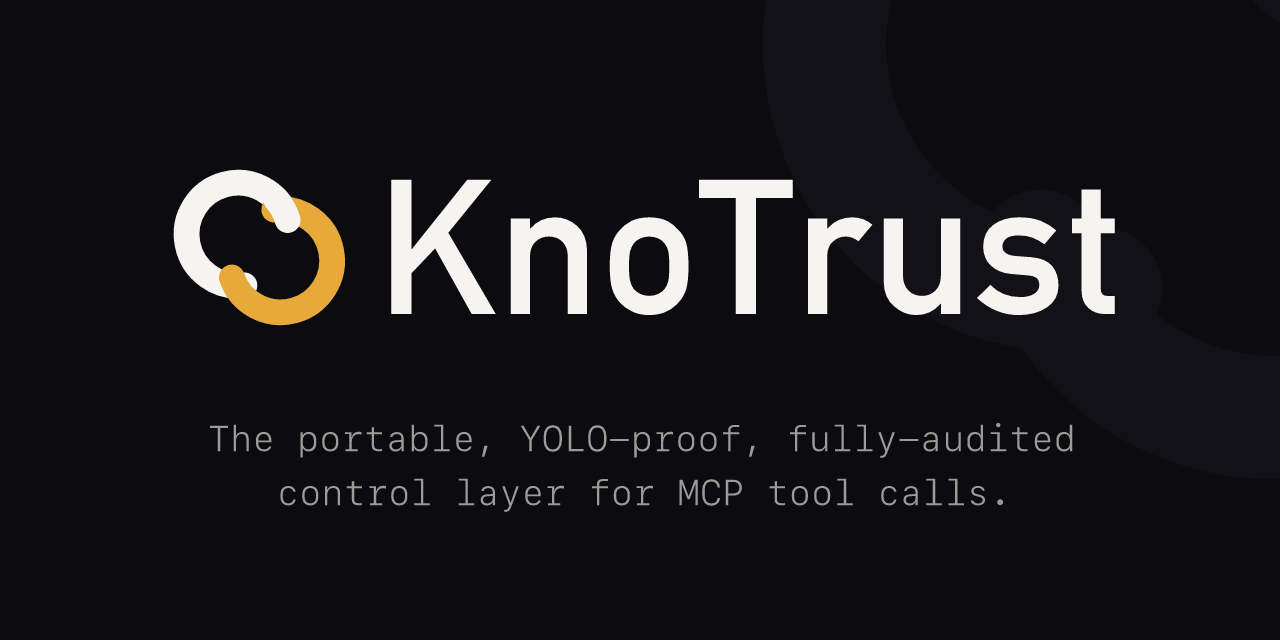
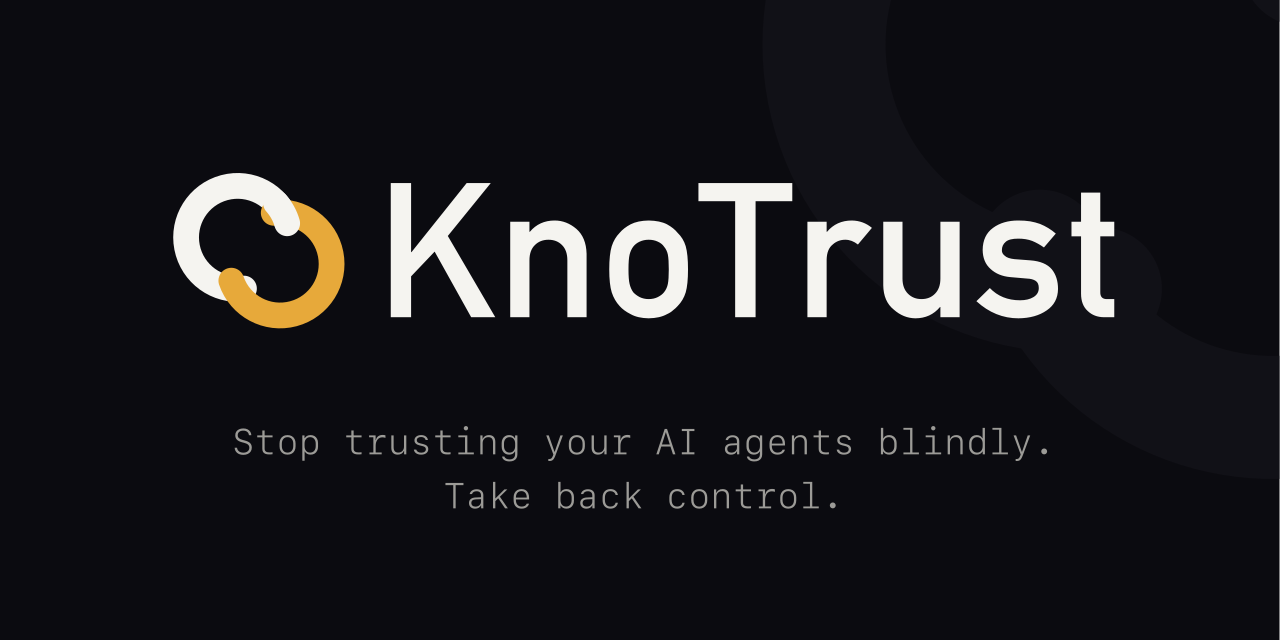
docs: reposition to a human, accessible voice
Reframe the public messaging around 'stop trusting your AI agents blindly —
take back control', and make the intro-level docs readable by non-technical
and lightly-technical people, not only developers.

- README subtitle + opening paragraph now lead with the problem in plain
  language and a spending-limit/receipt analogy, then keep the full technical
  description below.
- Website hero, site description, and OG title/description updated to the new
  voice; six feature cards reworded plainer.
- guide/introduction.md and guide/core-concepts.md: each concept gets a
  plain-language 'in plain terms' lead + inline glosses (MCP, tool call,
  grant, tier), with all technical detail and every honesty caveat preserved
  verbatim below. security.md/architecture.md get a one-line orienting note.
- Regenerated the social-preview card with the new two-line tagline.

No technical claim or limitation caveat was softened: 'not a sandbox',
'tamper-evident, not tamper-proof', 'config-cooperative', and 'annotations
never trusted blindly' are all intact; the local log is never called
'immutable'.

diff --git a/website/guide/introduction.md b/website/guide/introduction.md
@@ -2,14 +2,37 @@
 
 ## What is KnoTrust?
 
-KnoTrust is a **local-first policy enforcement and human-approval layer for
-the Model Context Protocol (MCP)**. It sits between an MCP client (Claude
-Desktop, Codex CLI, or any MCP-native agent) and the real MCP server it's
-talking to, watches every `tools/call`, and decides — in real time — whether
-that call should run, be refused, or wait for a human.
+AI agents don't just chat anymore — they *do* things. They send emails,
+move money, deploy code, delete files, and post messages, often on their
+own. That's genuinely useful, and a little nerve-wracking: the same agent
+that drafts your release notes could just as easily force-push over your
+main branch, and you'd only find out afterward.
+
+KnoTrust puts a human back in the loop for the actions that actually
+matter. You decide once which kinds of actions are safe to run
+automatically, which need a one-time approval, and which should always
+stop and ask a person. Then KnoTrust sits quietly between your agent and
+its tools: safe actions pass straight through, risky ones pause and wait
+for your "yes," and every attempt — allowed or blocked — is written to a
+log you can check later.
+
+Think of it as a spending limit and an approval step for your AI agent —
+plus a receipt for everything it does.
+
+More precisely: KnoTrust is a **local-first policy enforcement and
+human-approval layer for the Model Context Protocol (MCP)** — the open
+standard that agents like Claude and Codex use to reach outside tools such
+as files, GitHub, Stripe, or Slack. Whenever an agent "calls a tool" —
+attempts to actually *do* something rather than just talk — it does so
+through MCP, and each of those attempts is a **tool call**. KnoTrust sits
+between an MCP client (Claude Desktop, Codex CLI, or any MCP-native agent)
+and the real MCP server it's talking to, watches every `tools/call`, and
+decides — in real time — whether that call should run, be refused, or wait
+for a human.
 
 Concretely, it ships as a single `knotrust` CLI. Its flagship surface is a
-**stdio proxy**: you wrap an MCP server's launch command in `knotrust --`,
+**stdio proxy** (a lightweight relay process that inspects each message as
+it passes through): you wrap an MCP server's launch command in `knotrust --`,
 and from then on every tool call that server would have run instead passes
 through KnoTrust's decision core first.
 
@@ -56,10 +79,12 @@ Read more in [Core Concepts](/guide/core-concepts) and the full
 
 ## The grant: KnoTrust's core primitive
 
-A **grant** is a pre-satisfied prerequisite — `{principal, agent, tool,
-resource scope, conditions, risk tier, granted_by, expiry, single_use}` —
-signed with Ed25519 (JWS Compact, `alg: EdDSA`) so it can be verified fully
-offline, with no network call and no external service. There are two kinds:
+In plain terms, a **grant** is a pre-approval you sign once so KnoTrust
+doesn't have to ask you about the same safe action every time. Formally, a
+grant is a pre-satisfied prerequisite — `{principal, agent, tool, resource
+scope, conditions, risk tier, granted_by, expiry, single_use}` — signed with
+Ed25519 (JWS Compact, `alg: EdDSA`) so it can be verified fully offline,
+with no network call and no external service. There are two kinds:
 
 - **Durable grants** you mint ahead of time with `knotrust grant`, for calls
   you're happy to pre-authorize (e.g. "this agent may open GitHub issues on
@@ -76,9 +101,13 @@ for KnoTrust's injection-resistance — see [Security](/security).
 
 ## Risk tiers
 
-Every tool call is classified into one of three tiers, and the tier drives
-everything else — whether a durable grant can satisfy it, whether it's
-cached, and whether it can ever fail open:
+In plain words, every action falls into one of three buckets: `routine`
+(safe, everyday reads — these run automatically), `sensitive` (writes and
+changes — these need a one-time grant), and `critical` (dangerous or
+irreversible actions — these always stop and ask a human). Every tool call
+is classified into one of these three tiers, and the tier drives everything
+else — whether a durable grant can satisfy it, whether it's cached, and
+whether it can ever fail open:
 
 <p>
 <span class="tier tier-routine">routine</span>

diff --git a/website/index.md b/website/index.md
@@ -6,8 +6,8 @@ hero:
     light: /logo-wordmark.svg
     dark: /logo-wordmark-dark.svg
     alt: KnoTrust
-  text: "Stop re-approving safe calls. Stop the catastrophic ones cold."
-  tagline: The local-first policy and approval layer for what your agents can do through MCP — signed grants, human-in-the-loop approval, and a tamper-evident audit trail. Portable across Claude, Codex, and any MCP-native agent.
+  text: "Stop trusting your AI agents blindly."
+  tagline: KnoTrust puts you back in charge of what your AI agents can actually do — the safe actions run instantly, the risky ones wait for your approval, and every attempt is logged. Works with Claude, Codex, and any MCP agent. Nothing to host, no account.
   actions:
     - theme: brand
       text: Get Started
@@ -17,18 +17,18 @@ hero:
       link: https://github.com/avijeett007/knotrust
 
 features:
-  - title: Local-first & zero-backend
-    details: Runs entirely on your machine. "npx knotrust -- <server>" and go — no account, no cloud, and nothing to stand up.
-  - title: Signed durable grants
-    details: Pre-authorize a tool once with an Ed25519-signed grant. Stop re-approving the same safe call in every new session.
-  - title: Human-in-the-loop approval
-    details: Critical actions block and wait for an authenticated human — a terminal prompt or the localhost approval page, on every client.
-  - title: Fully audited & tamper-evident
-    details: Every decision — allow, deny, or hold — appends to a hash-chained log. Nothing your agent attempted goes unrecorded.
-  - title: Cross-agent portable
-    details: One grant, one policy — works across Claude Desktop, Codex CLI, and any MCP-native agent, not locked to a single client's config.
-  - title: Standards-conformant
-    details: Built on the AuthZEN Authorization API's Subject/Action/Resource/Context model and the MCP protocol, not a bespoke policy language.
+  - title: Runs on your machine
+    details: Nothing to host, no account, no cloud. `npx knotrust -- <server>` and you're going. Your policy and history stay in `~/.knotrust/` on your computer.
+  - title: Approve once, not every time
+    details: Pre-approve a safe action with a signed grant, and KnoTrust stops asking you about it in every new session.
+  - title: A human checks the risky stuff
+    details: Critical actions stop and wait for a real person to approve them — from a terminal prompt or a local approval page — on every client.
+  - title: Everything is on the record
+    details: Every decision — allowed, denied, or held — is appended to a tamper-evident log. Nothing your agent tried goes unrecorded.
+  - title: Works with all your agents
+    details: One policy, one grant — the same in front of Claude Desktop, Codex CLI, or any MCP agent. Not locked to one app's settings.
+  - title: Built on open standards
+    details: Uses the AuthZEN authorization model and the MCP protocol — not a bespoke, lock-in policy language.
 ---
 
 ## Get started in under a minute
@@ -41,11 +41,12 @@ npx knotrust init claude
 npx knotrust -- node server.js
 ```
 
-`knotrust init` finds your client's MCP config, rewires each server to run
-behind `knotrust --`, and seeds a `knotrust.config` with suggested risk tiers
-drawn from the server's own tool annotations. From there, every `tools/call`
-is decided: routine calls pass straight through, sensitive calls need a
-grant, and critical calls block until an authenticated human approves them.
+`knotrust init` finds your AI client's tool configuration, rewires each tool
+server to run behind `knotrust --`, and sets up a starting policy with
+suggested risk tiers based on what each tool says about itself. From there,
+every action your agent tries is decided by its risk tier: routine actions
+pass straight through, sensitive actions need a one-time approval (a
+"grant"), and critical actions stop and wait for you to say yes.
 See the [installation & quickstart guide](/guide/installation) for the full
 walkthrough.
 

diff --git a/website/guide/core-concepts.md b/website/guide/core-concepts.md
@@ -2,6 +2,11 @@
 
 ## Risk tiers
 
+In plain terms: every action your agent tries gets sorted into one of
+three buckets — safe reads that run automatically, changes that need a
+one-time approval, and dangerous or irreversible actions that always stop
+and wait for a human.
+
 Every tool call KnoTrust intercepts is classified into one of three tiers,
 in order of increasing consequence:
 
@@ -28,6 +33,11 @@ unannotated, destructive-looking tool defaults to `sensitive` or higher, never
 whatever an admin envelope has floored it at.
 
 ## Signed grants
+
+In plain terms: a grant is a pre-approval you sign once, so KnoTrust
+doesn't have to ask you about the same safe action every time — like
+handing someone a standing permission slip instead of asking again on
+every single occasion.
 
 A **grant** is the thing that lets a call skip re-approval: a pre-satisfied
 prerequisite of the shape `{principal, agent, tool, resource scope,
@@ -66,6 +76,11 @@ authenticated human approving an escalation. See
 
 ## Approvals & block-and-wait
 
+In plain terms: when your agent tries something risky enough to need a
+real person's sign-off, KnoTrust pauses the action and asks you — wherever
+you happen to be looking, whether that's a terminal or a browser tab —
+rather than letting it run and hoping for the best.
+
 When a `critical` call has no matching grant, it escalates to the approval
 orchestrator, which walks a lifecycle of
 `requested → pending → approved | denied | expired | cancelled`. Because
@@ -94,6 +109,10 @@ validated against DNS-rebinding. See [Security](/security) for the full
 threat model behind this design.
 
 ## The audit trail
+
+In plain terms: KnoTrust keeps a running record of everything your agent
+tried — like a receipt roll you can scroll back through — so if something
+goes wrong, you can see exactly what happened and when.
 
 Every decision KnoTrust makes — allow, deny, a cache hit, an approval
 request, a grant minted, a fail-open firing — appends exactly one event to

diff --git a/README.md b/README.md
@@ -7,7 +7,7 @@
 </p>
 
 <p align="center">
-  <b>The portable, YOLO-proof, fully-audited control layer for what your agents can do through MCP.</b>
+  <b>Stop trusting your AI agents blindly. Take back control of what they can do.</b>
 </p>
 
 <p align="center">
@@ -19,7 +19,9 @@
 
 ---
 
-**KnoTrust** is an open-source, local-first, zero-backend policy-and-approval layer for [MCP](https://modelcontextprotocol.io) tool calls. It runs as a **stdio proxy** — `knotrust -- your-mcp-server` — that sits between an MCP client (Claude Desktop, Codex CLI, or any MCP-native agent) and the real server, intercepting every `tools/call`. Each call is evaluated against **signed grants**, a **risk tier**, and (when neither is enough) a **human approval**, and resolved to one of four outcomes: `allow`, `deny`, `pending_approval`, or `deferred_not_eligible`. Enforcement happens **inside the proxy process, server-side of the client** — so it holds even when the client itself is running in a YOLO / auto-approve / `--dangerously-skip-permissions` mode, because the client's own approval UI was never in the loop to begin with.
+AI agents don't just chat anymore — they *do* things: send emails, move money, deploy code, delete files, post messages, often on their own. That's genuinely useful, and a little nerve-wracking — the same agent that drafts your release notes could just as easily force-push over your main branch, and you'd only find out afterward. Think of **KnoTrust** as a spending limit and an approval step for your AI agent, plus a receipt for everything it does.
+
+Precisely: **KnoTrust** is an open-source, local-first, zero-backend policy-and-approval layer for [MCP](https://modelcontextprotocol.io) (the open standard agents like Claude and Codex use to reach outside tools) tool calls. It runs as a **stdio proxy** — `knotrust -- your-mcp-server` — that sits between an MCP client (Claude Desktop, Codex CLI, or any MCP-native agent) and the real server, intercepting every `tools/call` (any time your agent tries to actually *do* something, rather than just talk). Each call is evaluated against **signed grants** (a pre-approval you sign once so KnoTrust doesn't have to ask about the same safe action every time), a **risk tier**, and (when neither is enough) a **human approval**, and resolved to one of four outcomes: `allow`, `deny`, `pending_approval`, or `deferred_not_eligible`. Enforcement happens **inside the proxy process, server-side of the client** — so it holds even when the client itself is running in a YOLO / auto-approve / `--dangerously-skip-permissions` mode, because the client's own approval UI was never in the loop to begin with.
 
 ## What KnoTrust is
 

diff --git a/website/architecture.md b/website/architecture.md
@@ -1,5 +1,9 @@
 # Architecture
 
+> New here? This page describes how KnoTrust is built internally. For a
+> plain-language explanation of what it does and why, see the
+> [Introduction](/guide/introduction) first.
+
 ## Overview
 
 KnoTrust is a **Policy Enforcement Point (PEP)** — a thin enforcement edge

diff --git a/website/security.md b/website/security.md
@@ -1,5 +1,9 @@
 # Security & Threat Boundaries
 
+> New here? This page is the detailed, technical honesty check on exactly
+> what KnoTrust protects against and what it doesn't. For the plain-language
+> version first, see the [Introduction](/guide/introduction).
+
 KnoTrust is a **Policy Enforcement Point (PEP)**: a proxy that sits on the
 MCP action surface, maps every `tools/call` into a policy decision,
 evaluates it against signed grants and configuration, and — for `critical`